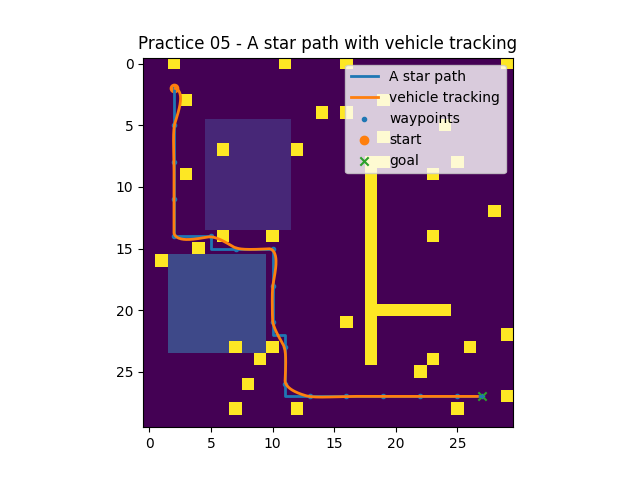
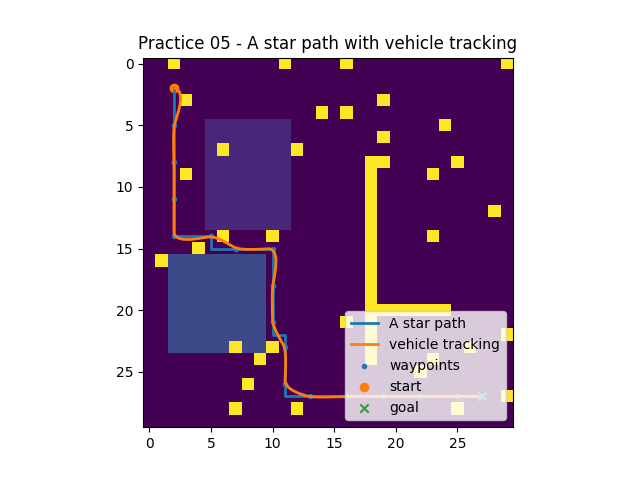
added legend to the figure

Changed region(s): [[0.5312, 0.625, 0.8125, 0.9062], [0.5312, 0.125, 0.8125, 0.375]]

diff --git a/projects/05_astar_vehicle_tracking/a_star_vehicle_tracking.py b/projects/05_astar_vehicle_tracking/a_star_vehicle_tracking.py
@@ -266,7 +266,7 @@ plt.scatter(start[1], start[0], marker="o", label="start")
 plt.scatter(goal[1], goal[0], marker="x", label="goal")
 
 plt.title("Practice 05 - A star path with vehicle tracking")
-plt.legend()
+plt.legend(loc="lower right")
 
 save_name = os.path.join(output_folder, "practice_05_astar_vehicle_tracking.png")
 plt.savefig(save_name)
